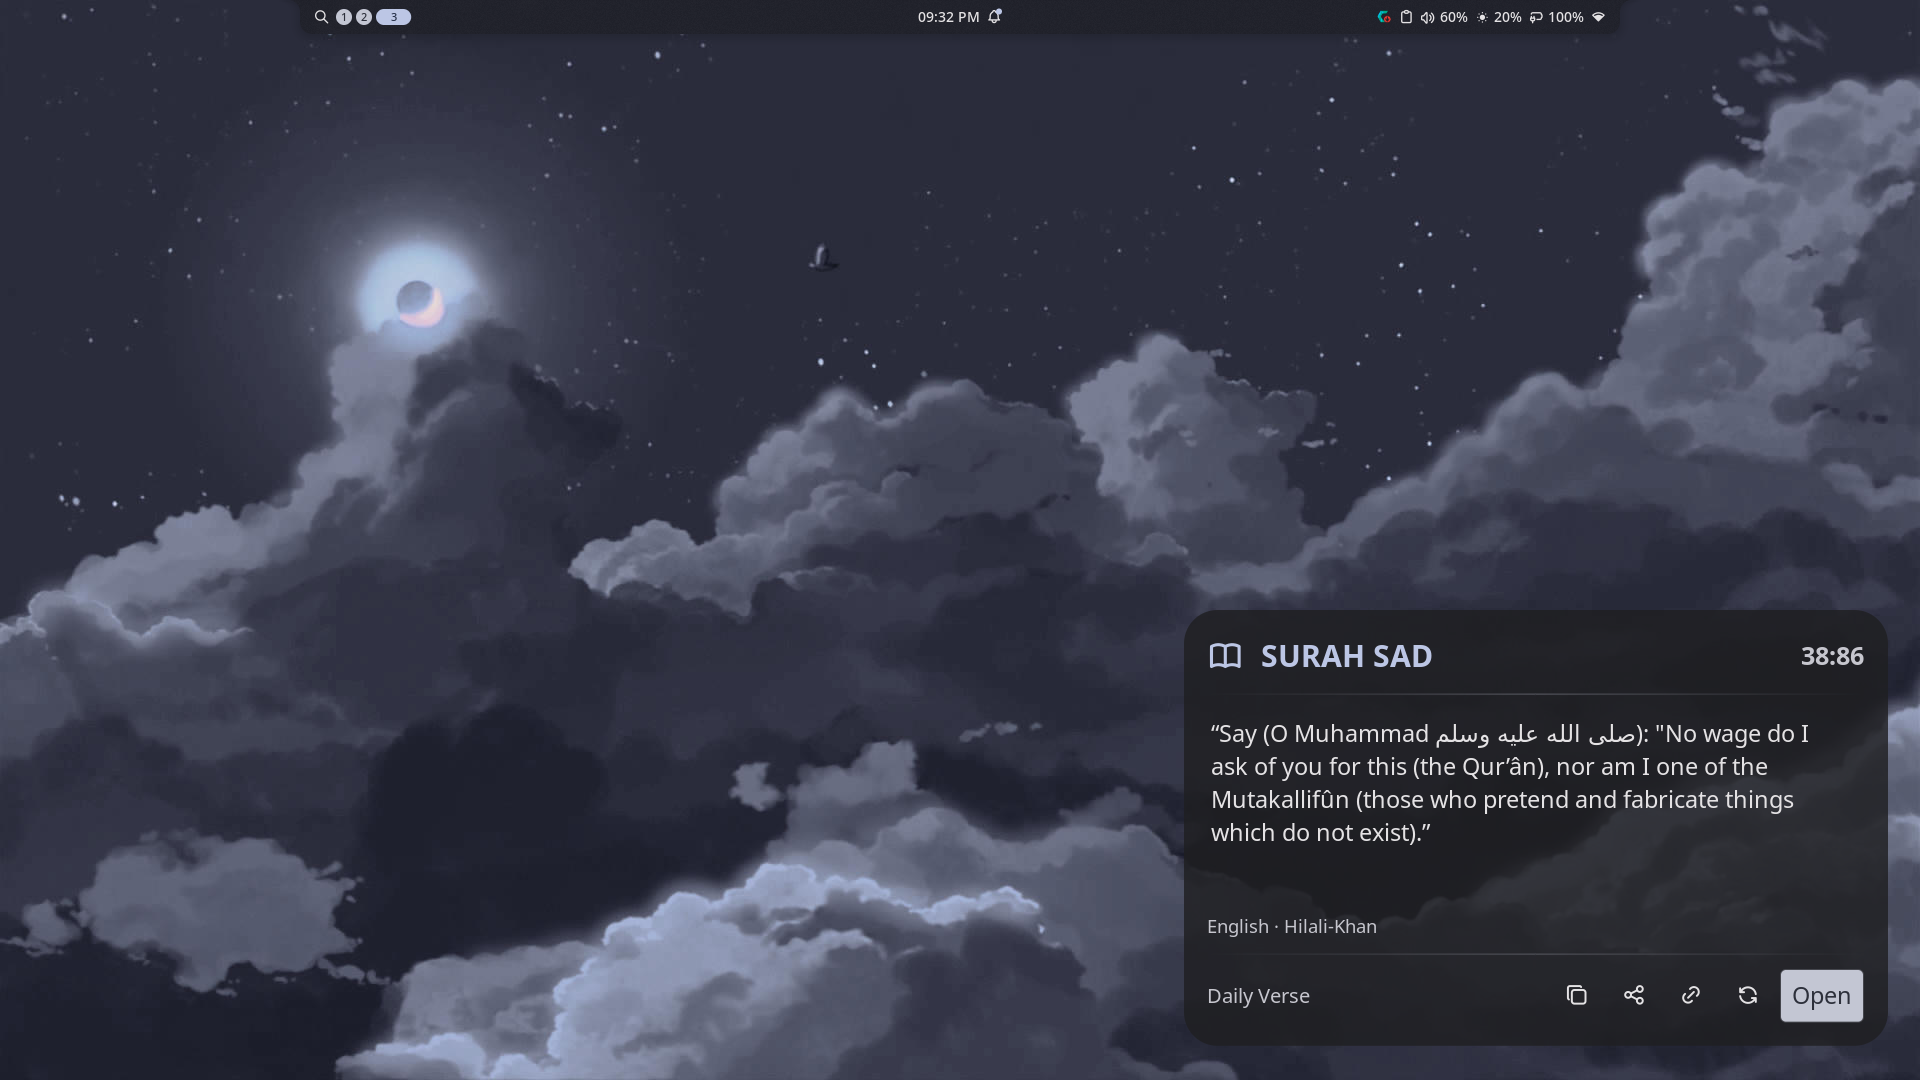
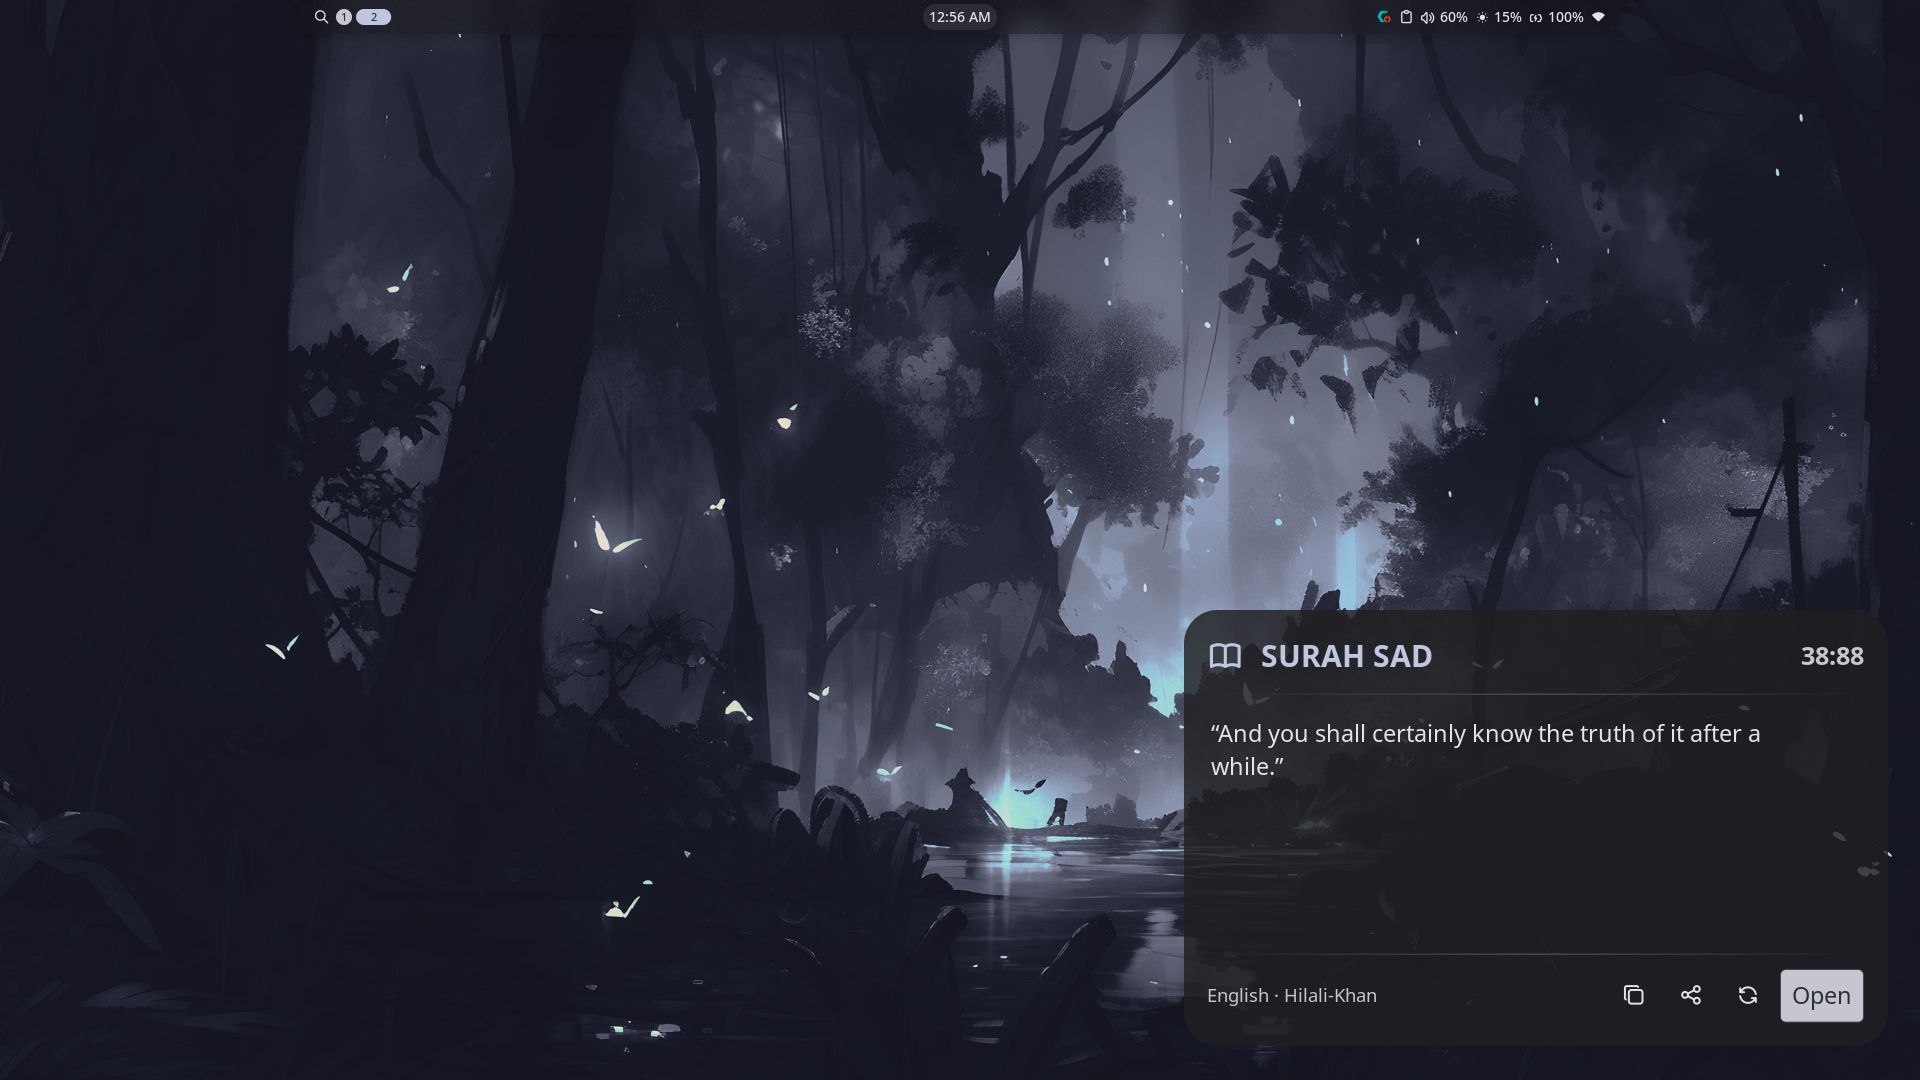
docs: update visual previews, catalog thumbnail, and technical documentation

diff --git a/README.md b/README.md
@@ -20,6 +20,7 @@
   - [Quickstart](#quickstart-automatic-installation)
   - [Manual Installation](#manual-installation)
 - [Technical Architecture](#technical-architecture)
+  - [Prefetch Pool & Caching Flow](#prefetch-pool--caching-flow)
   - [Directory Structure](#directory-structure)
 - [Validation and Testing](#validation-and-testing)
 - [Uninstallation](#uninstallation)
@@ -31,7 +32,7 @@
 
 Noctalia Quran Verse Widget is a native desktop widget for the Noctalia Wayland shell. It provides an uninterrupted spiritual anchor on Linux desktops by presenting a daily verse from the Quran paired with the authoritative English translation by Muhammad Taqi-ud-Din al-Hilali and Muhammad Muhsin Khan.
 
-The widget renders inside a fixed 420x260 card, updates smoothly at midnight, retains full offline capability through local state caching, and provides instant clipboard formatting for research and sharing.
+The widget renders inside a fixed 420x260 card, updates smoothly at midnight, retains full offline capability through local state caching and bundled fallbacks, and provides instant clipboard formatting for research and sharing.
 
 ![Noctalia Quran Verse Desktop Widget Preview](assets/preview.png)
 
@@ -39,13 +40,15 @@ The widget renders inside a fixed 420x260 card, updates smoothly at midnight, re
 
 ## Key Features
 
-- **Authoritative Translation**: Exclusively presents the scholarly Hilali-Khan translation sourced directly from Quran.com API (resource ID 203) with automatic fallback to QuranEnc.
+- **Authoritative Translation**: Exclusively presents the scholarly Hilali-Khan translation sourced directly from Quran.com API (resource ID 203) with automatic secondary failover to QuranEnc.
 - **Deterministic Calendar Sequence**: Maps every day of the calendar year to a distinct ayah across all 6,236 verses of the Quran, ensuring synchronized daily reading.
-- **Random Exploration Mode**: Discover any verse across all 114 Surahs with a single click, featuring a persistent "Back to Today" action to restore the daily sequence.
-- **Offline Resilience**: Writes today's retrieved verse to a local cache (`verse.json`). Launches instantly on system startup without waiting for network connectivity.
-- **Fixed Layout Preservation**: Contains a responsive Luau scroll view that preserves the widget's geometric boundary (420x260 px) even when displaying longer verses.
-- **One-Click Share Citations**: Export clean plain text, formatted quote citations (`"..." Surah Al-Baqarah 2:255 · Hilali-Khan`), or direct web references to the system clipboard.
-- **Resource Efficient**: Operates on a dynamic event loop (30-second idle polling, 1-second transient banner decay) to maintain near-zero CPU and memory footprint.
+- **Instant Random Exploration**: Explore any verse across all 114 Surahs with 0ms perceived latency powered by a background prefetch pool, featuring a persistent "Back to Today" button to restore the daily sequence.
+- **Offline-First Resilience**: Writes retrieved verses to local storage (`verse.json`) and bundles an in-memory seed verse (Surah Al-Fatihah 1:1) to guarantee immediate display even on fresh, offline cold starts.
+- **BiDi-Safe Typography**: Sanitizes surrounding quotes, footnote superscripts, and parenthetical Arabic honorific calligraphy (`صلى الله عليه وسلم`) to ensure bidirectional rendering stability.
+- **Fixed Layout Preservation**: Contains a responsive Luau scroll view that preserves the widget boundary (420x260 px) when displaying long passages like Ayat al-Dayn (2:282).
+- **Consolidated Single-Row Footer**: Status attribution and dedicated controls share a clean, uncollided single horizontal row with zero layout clipping.
+- **One-Click Share Citations**: Export clean plain text, formatted quote citations (`"..." Surah Sad 38:88 · Hilali-Khan`), or direct web references to the system clipboard.
+- **Resource Efficient**: Operates on a dynamic event loop (30-second idle polling, 1.5-second transient banner decay) maintaining near-zero CPU and memory usage.
 
 ---
 
@@ -66,8 +69,8 @@ Interactive controls available on the widget interface:
 | **Verse Body** | Click text area | Copies the plain English translation to clipboard |
 | **Copy Icon** | Click | Copies the plain English translation to clipboard |
 | **Share Icon** | Click | Copies formatted quotation with Surah name, Ayah reference, and translation credit |
-| **Refresh Icon** | Click | Fetches a random verse across all 114 Surahs (instant 0ms switch) |
-| **Back to Today** | Click | Exits random mode and restores today's scheduled verse |
+| **Refresh Icon** | Click | Switches instantly to a random verse across all 114 Surahs (0ms response) |
+| **Back to Today** | Click | Exits random mode and immediately restores today's scheduled verse |
 | **Open Button** | Click | Launches the verse directly in your default browser via `xdg-open` |
 
 ---
@@ -141,16 +144,24 @@ The widget executes inside Noctalia's sandboxed Luau runtime. Network queries ex
 flowchart TD
     A[Widget Initialization] --> B{Cache Exists for Today?}
     B -- Yes --> C[Load verse.json Instant Render]
-    B -- No --> D[Calculate Day Index 1-6236]
-    D --> E[Query Quran.com API v4]
-    E -- 200 OK --> F[Parse Hilali-Khan Translation]
-    E -- Failure / Timeout --> G[Query QuranEnc API Fallback]
-    G -- 200 OK --> F
-    G -- Failure --> H[Display Cached / Error State]
-    F --> I[Write to verse.json]
-    I --> J[Render Widget Interface]
-    J --> K[Set Update Interval 30s]
+    B -- No --> D{Offline Cold Start?}
+    D -- Yes --> E[Seed DEFAULT_OFFLINE_VERSE 1:1]
+    D -- No --> F[Calculate Day Index 1-6236]
+    F --> G[Query Quran.com API v4]
+    G -- 200 OK --> H[Parse Hilali-Khan Translation]
+    G -- Failure / Timeout --> I[Query QuranEnc API Fallback]
+    I -- 200 OK --> H
+    I -- Failure --> J[Display Cached / Offline Seed]
+    H --> K[Write to verse.json]
+    K --> L[Render Consolidated UI]
+    L --> M[Refill 2-Slot Prefetch Pool]
 ```
+
+### Prefetch Pool & Caching Flow
+
+1. **Background Prefetch**: An in-memory queue maintains up to 2 pre-fetched random verses. Clicking the refresh icon consumes the queue immediately for a 0ms transition, then asynchronously refills the pool.
+2. **Offline Fallback**: If network is disconnected on first run, the widget initializes with Surah Al-Fatihah 1:1, avoiding empty states or error crashes.
+3. **Collision-Proof Geometry**: The footer row distributes available width deterministically, ensuring that action buttons and status strings never overlap.
 
 ### Directory Structure
 
@@ -161,11 +172,13 @@ noctalia-quran-verse-widget/
 ├── LICENSE                # MIT License
 ├── README.md              # Project documentation
 ├── assets/
-│   ├── desktop.png        # Full-screen desktop context screenshot
-│   └── preview.png        # Cropped high-resolution widget interface preview
+│   ├── desktop.png        # Full-screen desktop context screenshot (1920x1080)
+│   └── preview.png        # Cropped high-resolution widget interface preview (740x480)
 ├── install.sh             # One-step automated installer
 ├── main.luau              # Primary widget logic and reactive UI implementation
 ├── plugin.toml            # Noctalia plugin manifest
+├── tests/
+│   └── test_edge_cases.lua # Edge case unit test suite
 ├── thumbnail.webp         # Official 960x540 catalog presentation card
 └── uninstall.sh           # Clean removal and unregistration script
 ```
@@ -187,6 +200,24 @@ hamzzaqureshi/quran-verse
   ok
 
 0 errors, 0 warnings
+```
+
+To run the offline translation and typography unit tests:
+
+```bash
+lua tests/test_edge_cases.lua
+```
+
+Expected output:
+
+```text
+Test 1: Normal translation
+  Pass: In the Name of Allah, the Most Beneficent, the Most Merciful.
+Test 2: Surah Al-Mu'minun 23:72 with Arabic calligraphy
+  Pass: Length 181 chars
+Test 3: Footnotes and tags
+  Pass: Some verse texttest.
+All edge case unit tests PASSED
 ```
 
 ---
